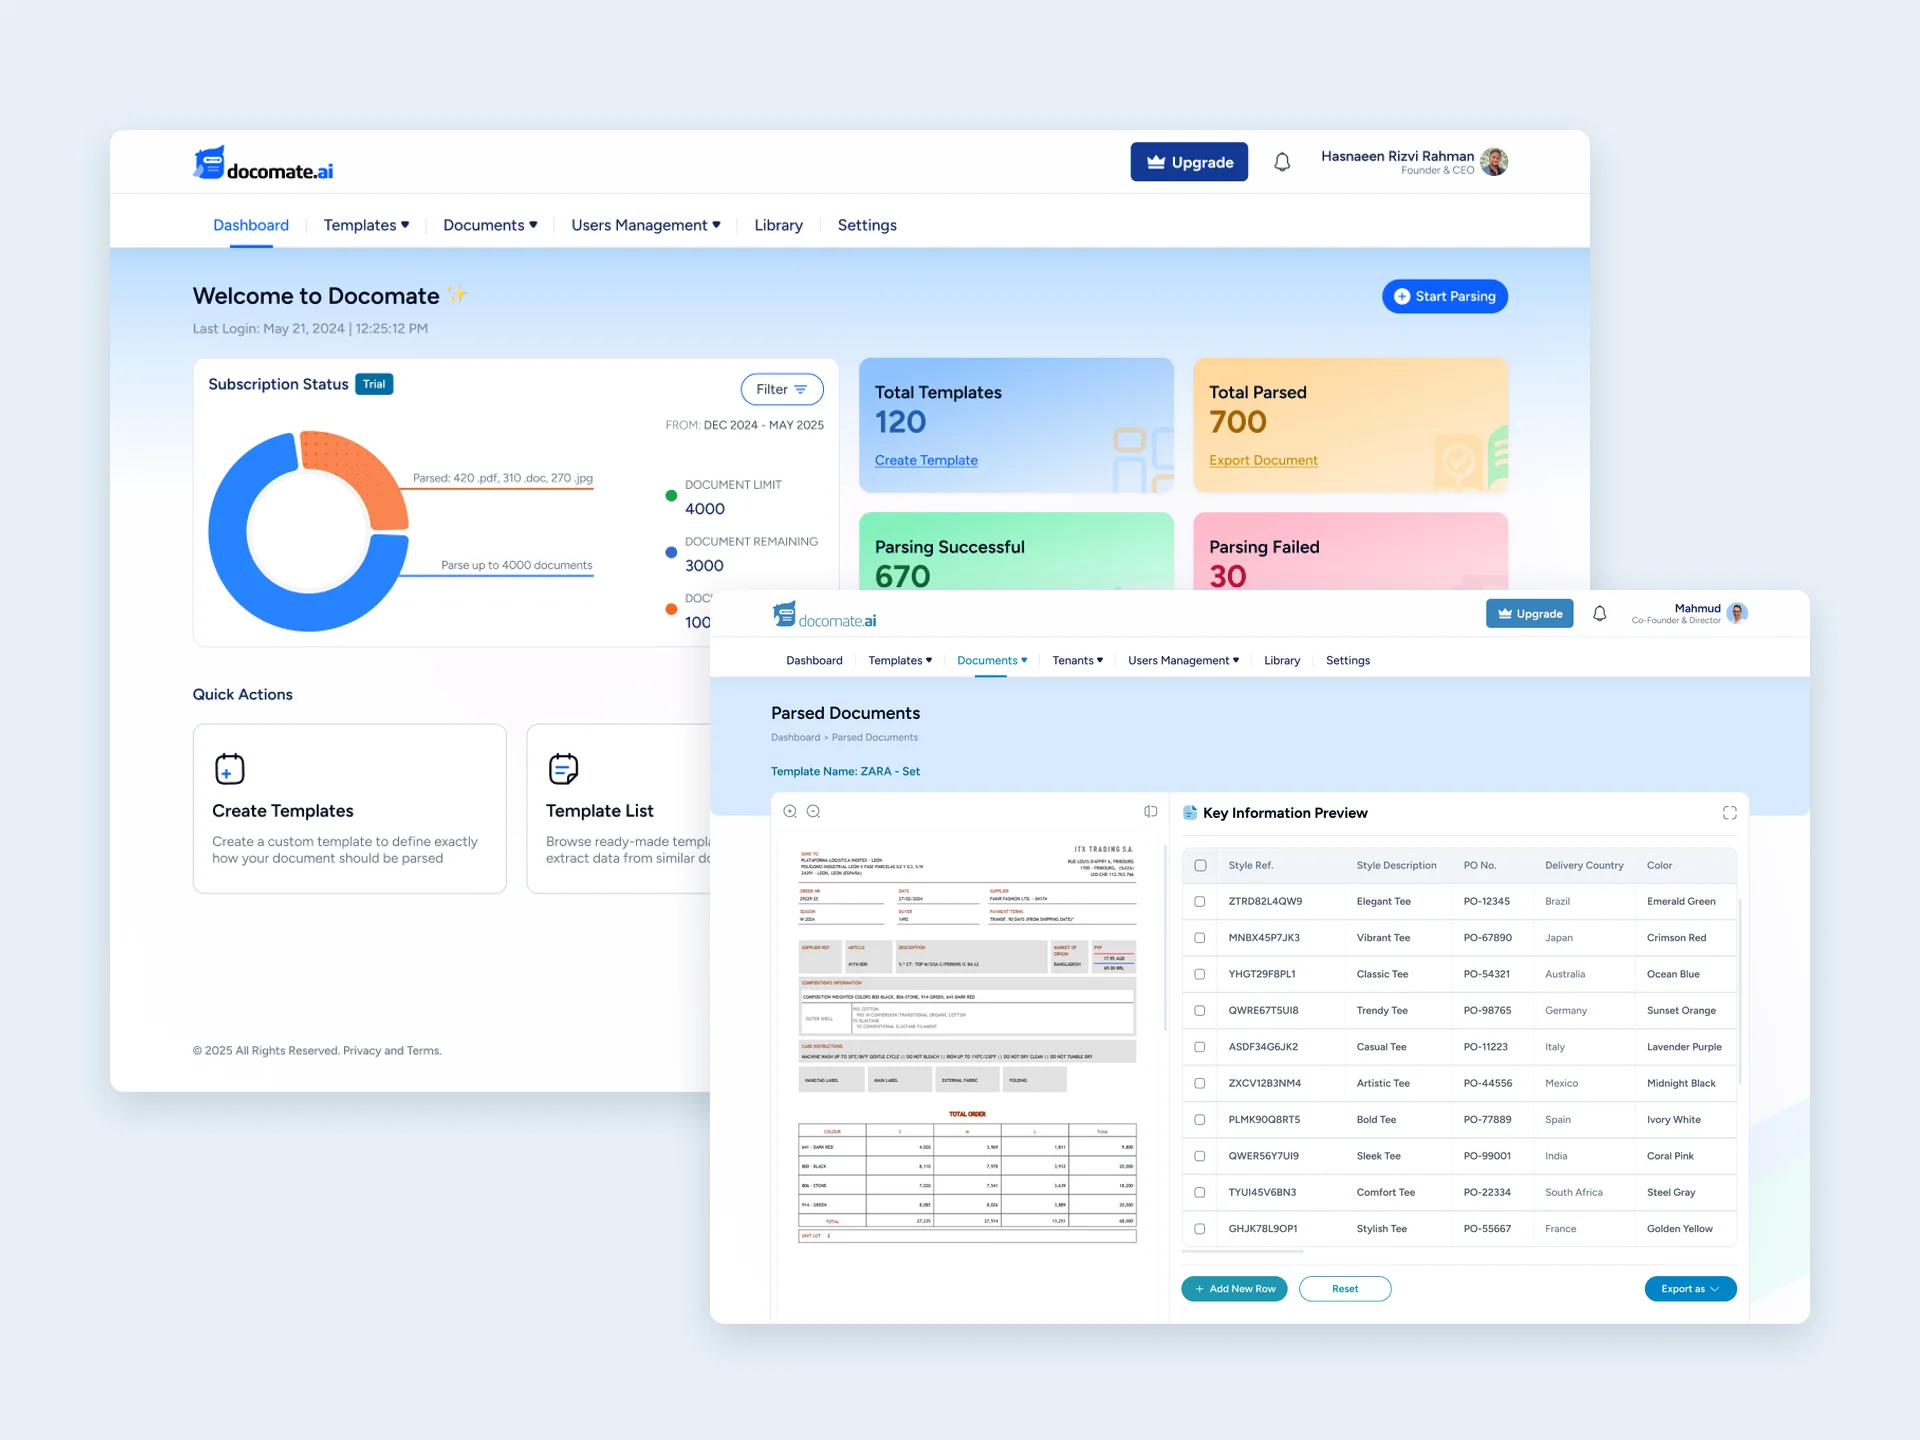
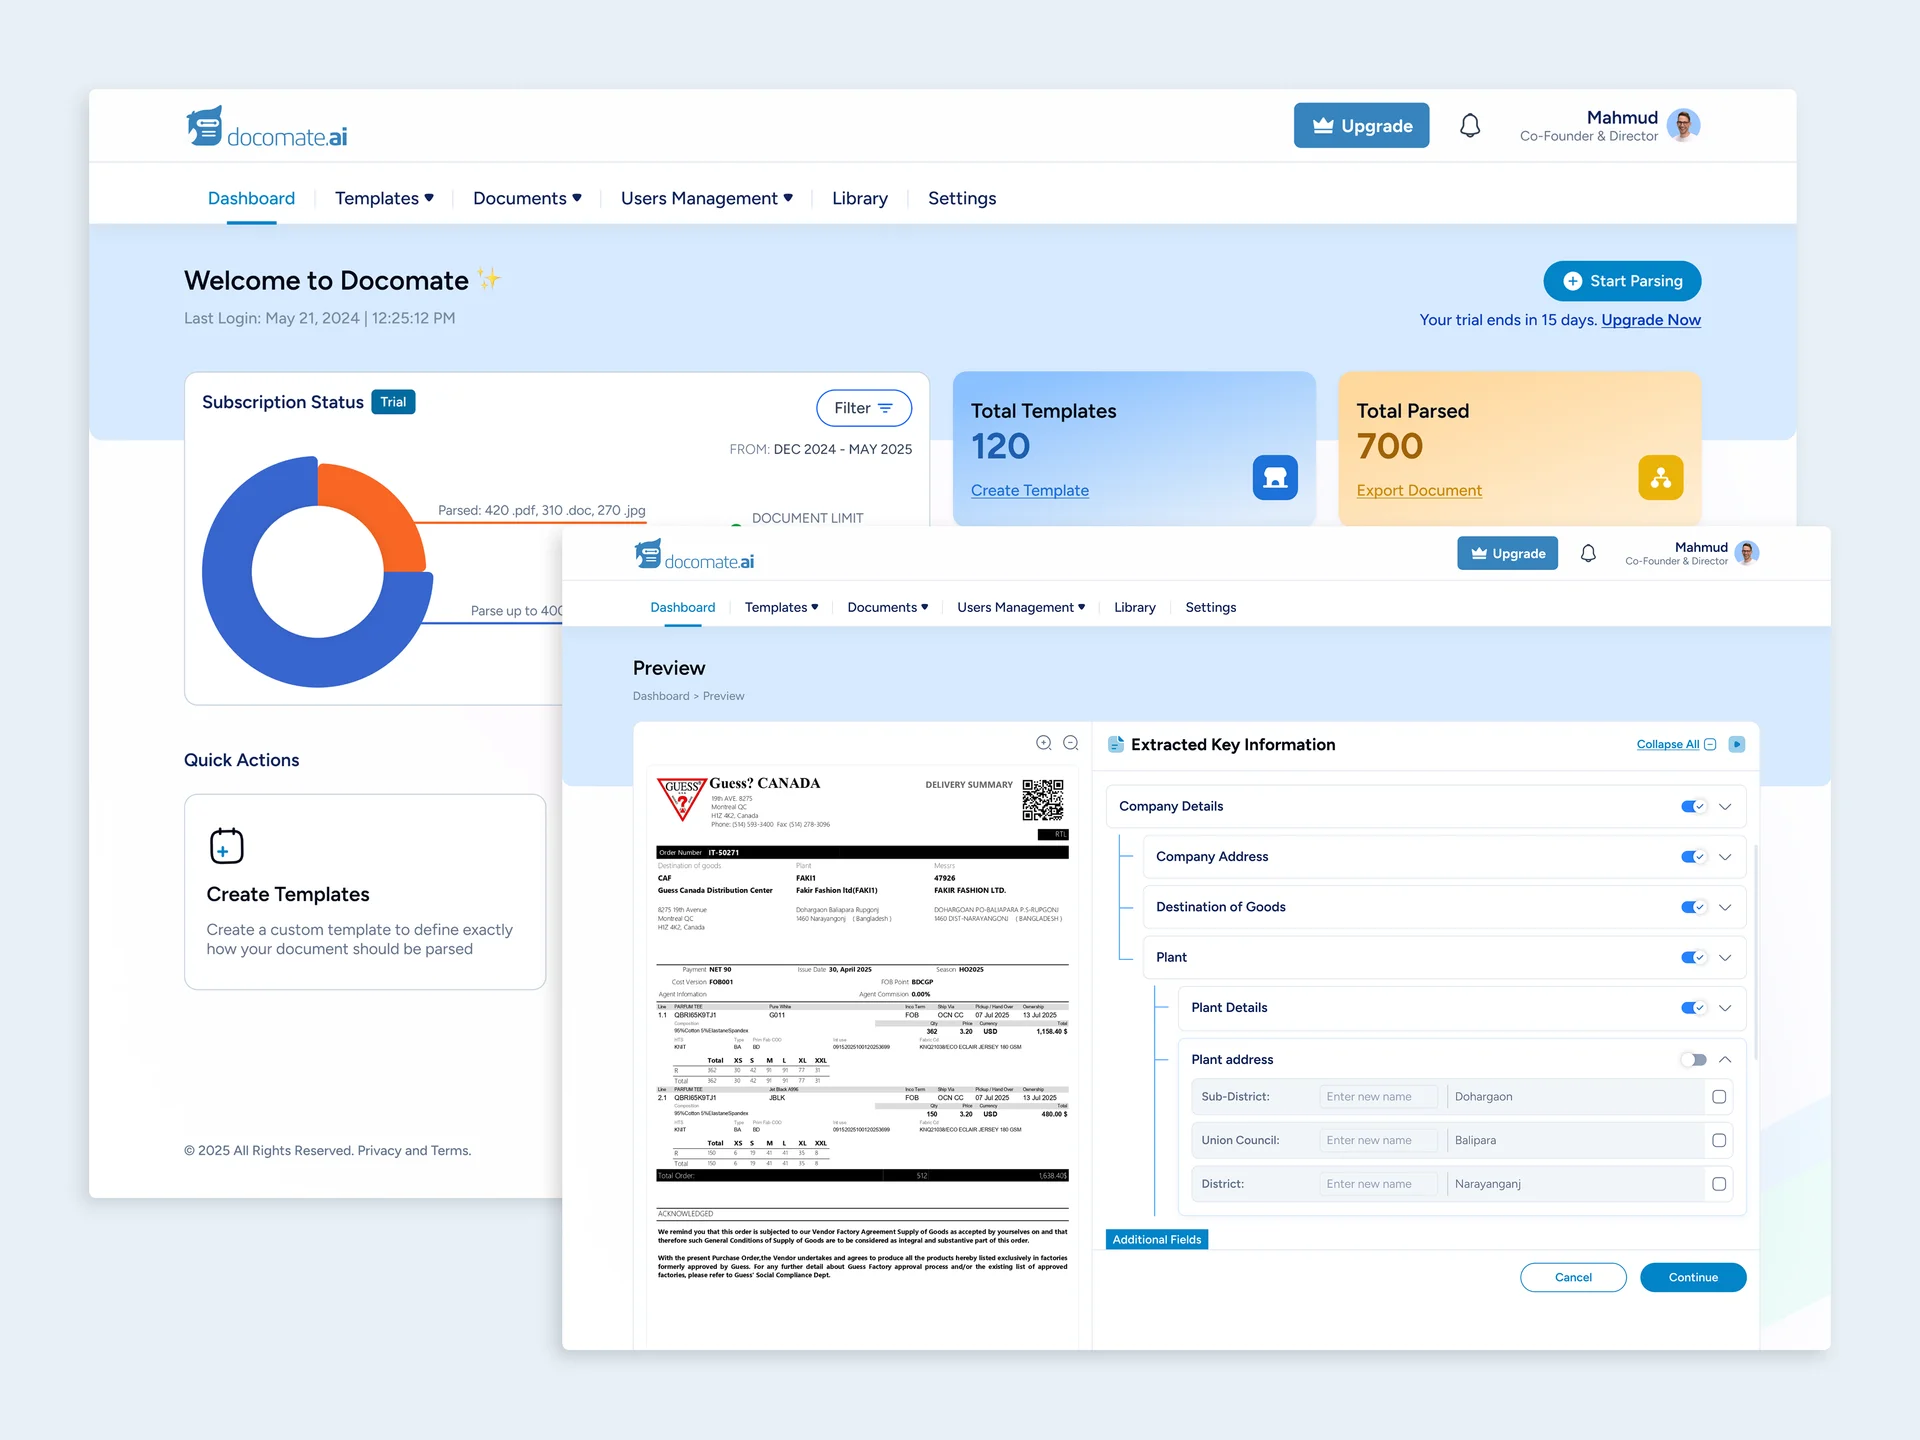
I have updated case studies

diff --git a/TASK_TRACKER.md b/TASK_TRACKER.md
@@ -74,3 +74,7 @@ Ground rules for every one: nothing essential hidden, a discoverable hint, reduc
 | Date | Entry |
 |---|---|
 | 2026-11-20 | Documentation audit. Added PROJECT_CONTEXT.md, TASK_TRACKER.md, DESIGN_SYSTEM.md; CLAUDE.md got a docs index and status pointer. No application files changed. |
+| 2026-11-20 | Docomate.ai project card image replaced with the designer's composite (template preview over dashboard, with mascot): `docomate.webp` (1200×1114) and `docomate-600.webp`; card alt text updated. |
+| 2026-11-20 | Docomate.ai cover replaced with the designer's composite (dashboard behind the template preview): `docomate-cover.webp` (1920×1440); cover alt text and caption updated. |
+| 2026-11-20 | IVISATS project card image replaced with the designer's composite (logo above the homepage hero on desktop and mobile): `ivisats.webp` (1448×1344, native size) and `ivisats-600.webp`; card alt text updated. Cover (`ivisats-cover.webp`) unchanged. |
+| 2026-11-20 | IVISATS Decision D image (`ivisats-form.webp`) replaced with the designer's two-part view of the whole enquiry form (3712×2784, native size); width/height, alt text and caption updated. |
